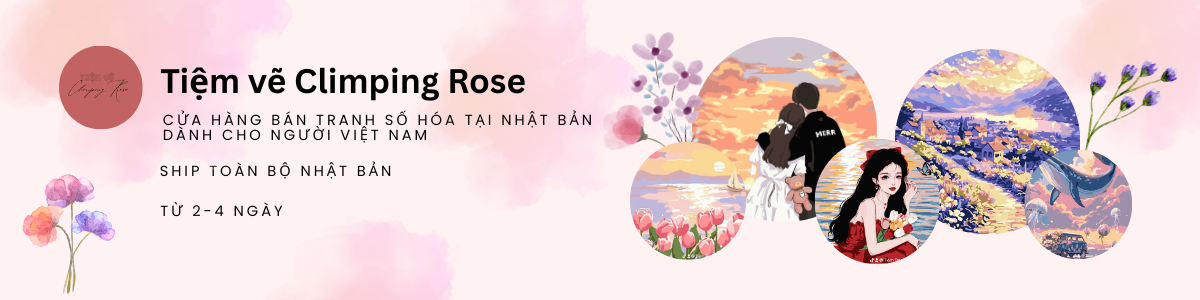
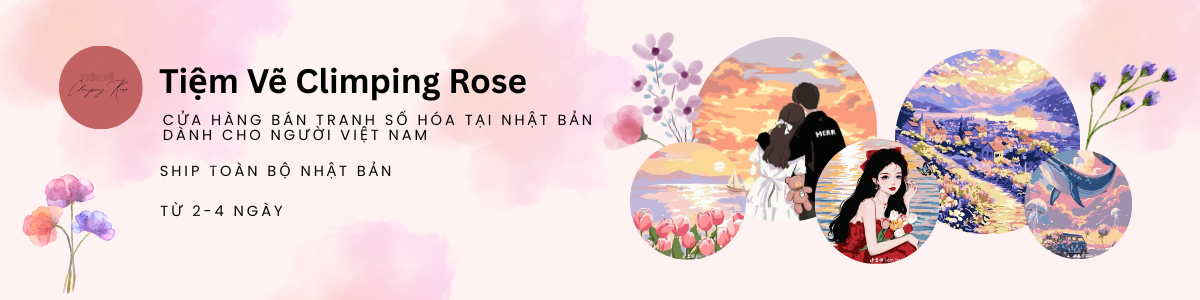
feat: add MessengerButton component for quick access to Messenger fix: update title and alt text for consistency in Vietnamese localization style: adjust layout and spacing in PaintingDetailContent and ChatBot components

Changed region(s): [[0.1233, 0.21, 0.4317, 0.33]]

diff --git a/FE/tiem-ve-climping-rose-fe/src/components/chatbot/ChatBot.tsx b/FE/tiem-ve-climping-rose-fe/src/components/chatbot/ChatBot.tsx
@@ -48,11 +48,11 @@ const ChatBot = () => {
   };
 
   return (
-    <div className="fixed bottom-4 right-4 z-50">
+    <div className="fixed bottom-20 right-4 z-50">
       {isOpen ? (
         <div className="w-80 h-96 bg-white border rounded-xl shadow-lg flex flex-col">
           <div className="p-3 border-b flex justify-between items-center">
-            <span className="font-semibold">🤖 ChatBot</span>
+            <span className="font-semibold">🤖 Trợ lý Ảo Climping Rose</span>
             <button onClick={() => setIsOpen(false)}>✕</button>
           </div>
 
@@ -96,7 +96,7 @@ const ChatBot = () => {
           className="bg-blue-500 text-white p-3 rounded-full shadow-lg"
           onClick={() => setIsOpen(true)}
         >
-          💬
+          🤖
         </button>
       )}
     </div>

diff --git a/FE/tiem-ve-climping-rose-fe/src/components/layout/footer.tsx b/FE/tiem-ve-climping-rose-fe/src/components/layout/footer.tsx
@@ -10,13 +10,13 @@ const Footer = () => {
           <div className="flex items-center gap-2 mb-3">
             <Image
               src="/avt.jpg"
-              alt="Tiệm vẽ Climping Rose"
+              alt="Tiệm Vẽ Climping Rose"
               width={40}
               height={40}
               className="rounded-full"
             />
             <span className="font-bold text-lg text-red-500">
-              Tiệm vẽ Climping Rose
+              Tiệm Vẽ Climping Rose
             </span>
           </div>
           <p className="text-gray-600 leading-relaxed">

diff --git a/FE/tiem-ve-climping-rose-fe/src/app/layout.tsx b/FE/tiem-ve-climping-rose-fe/src/app/layout.tsx
@@ -6,6 +6,7 @@ import { Toaster } from "@/components/ui/sonner";
 import { getLocale, getMessages } from "next-intl/server";
 import AppInit from "@/components/AppInit";
 import ChatBot from "@/components/chatbot/ChatBot";
+import MessengerButton from "@/components/layout/MessageButton";
 
 const geistSans = Geist({
   variable: "--font-geist-sans",
@@ -42,6 +43,7 @@ export default async function RootLayout({
           <AppInit />
           {children}
           <ChatBot />
+          <MessengerButton />
         </Providers>
       </body>
     </html>

diff --git a/FE/tiem-ve-climping-rose-fe/src/components/layout/MessageButton.tsx b/FE/tiem-ve-climping-rose-fe/src/components/layout/MessageButton.tsx
@@ -1,0 +1,18 @@
+"use client";
+
+import Image from "next/image";
+
+export default function MessengerButton() {
+  return (
+    <a
+      href="https://m.me/tiemveclimpingrose"
+      target="_blank"
+      rel="noopener noreferrer"
+      className="fixed bottom-4 bg-white rounded-full right-4 z-50"
+    >
+      <div className=" p-3 rounded-full shadow-lg hover:scale-105 transition-transform">
+        <Image src="/mess.svg" alt="Messenger Icon" width={24} height={2} />
+      </div>
+    </a>
+  );
+}

diff --git a/FE/tiem-ve-climping-rose-fe/src/app/paintings/[id]/PaintingDetailContent.tsx b/FE/tiem-ve-climping-rose-fe/src/app/paintings/[id]/PaintingDetailContent.tsx
@@ -76,7 +76,7 @@ export default async function PaintingDetailContent({
             stock={painting.quantity}
           />
           <Separator className="my-4" />
-          <div className="flex gap-3">
+          <div className="flex gap-3 m-2">
             <Dialog>
               <DialogTrigger>
                 <div className="flex items-center gap-2 text-sm cursor-pointer underline">
